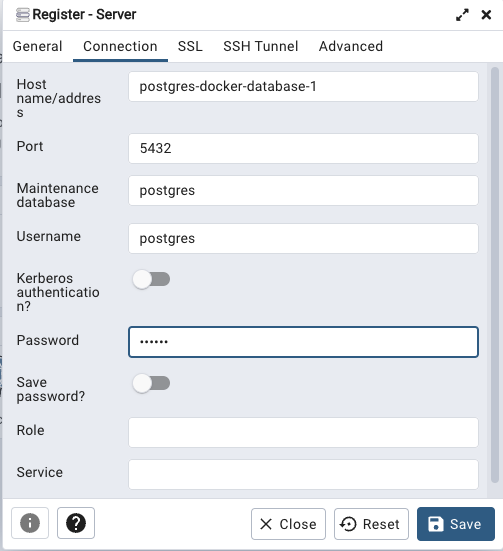
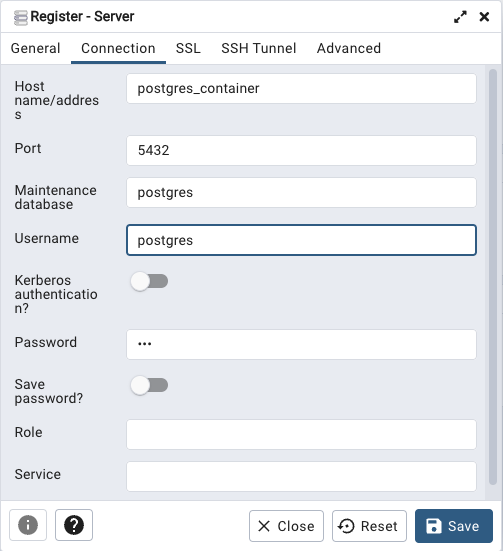
feat: Add tls for PG admin panel
- pgadmin use tls
- update README

diff --git a/README.md b/README.md
@@ -1,17 +1,26 @@
 # Install Postgres SQL object-relational database system on Docker
 
-[Postgres Docker source](https://github.com/docker-library/docs/blob/master/postgres/README.md)
+[Postgres for Docker](https://github.com/docker-library/docs/blob/master/postgres/README.md)
 
-## Prepare your environment
+This guide aims to deploy a Postgres Database running on Docker with his Admin panel (pgadmin).
 
-### Docker
-`Docker` and `docker compose` must be installed on the server in order to install and start Postgres system. 
+For this guide we use a Linux Ubuntu 20.xx and Postgres latest version.
 
-- docker installed [Install Docker Engine](https://docs.docker.com/engine/install/)
-- docker-compose installed [Install Docker Compose](https://docs.docker.com/compose/install/)
+## Quick Install
 
-### Postgres configuration 
+Connect to your server and clone the repo
+
+```shell
+git clone https://gitlab.com/ArnaudSene/postgres-docker.git
+cd postgres-docker
+```
+
+
 Edit the `.env` file with required values.
+
+```shell
+vi .env
+```
 
 ```dotenv
 POSTGRES_USER=postgres
@@ -21,22 +30,85 @@ PGADMIN_DEFAULT_EMAIL="a valid email"
 PGADMIN_DEFAULT_PASSWORD="pgadmin password"
 ```
 
-## Install & start Postgres container
+Create certificate
+
+```shell
+cd certs
+openssl req -new -newkey rsa:4096 -x509 -sha256 -days 365 -nodes -out pgadmin_server.crt -keyout pgadmin_server.key
+```
+
+Create and start containers.
+
+```shell
+bash start-postgres.sh
+```
+
+
+---
+
+## 1. Step by step - Prepare your environment
+
+### 1.1 Docker
+`Docker` and `docker compose` must be installed on the server in order to install and start Postgres system. 
+
+- docker installed [Install Docker Engine](https://docs.docker.com/engine/install/)
+- docker-compose installed [Install Docker Compose](https://docs.docker.com/compose/install/)
+
+### 1.2 Postgres configuration 
+Edit the `.env` file with required values.
+
+```shell
+vi .env
+```
+
+```dotenv
+POSTGRES_USER=postgres
+POSTGRES_PASSWORD="pg password"
+POSTGRES_DB="database name"
+PGADMIN_DEFAULT_EMAIL="a valid email"
+PGADMIN_DEFAULT_PASSWORD="pgadmin password"
+```
+
+### 1.3 Create a self-signed Certificate (for internal use)
+
+The certificate will be used for Postgres admin panel `pgadmin`
+
+Connect to your linux server and create a crt and key file.
+
+#### 1.3.1 Connect to your linux server
+
+*where server can be for example* 
+
+> - username: vagrant (replace with your username)
+> - server  : 192.168.56.38 (replace with your server IP address)
+
+```shell
+ssh vagrant@192.168.56.38
+```
+
+#### 1.3.2 Create a crt and key file
+
+```shell
+cd certs
+openssl req -new -newkey rsa:4096 -x509 -sha256 -days 365 -nodes -out pgadmin_server.crt -keyout pgadmin_server.key
+```
+
+## 2. Install & start Postgres container
 The script will configure the environment, create and start containers.
 
 ```shell
 bash start-postgres.sh
 ```
 
-## Connect to pgadmin
-### Retrieve the pgadmin IP address.
+## 3. Connect to pgadmin
+### 3.1 Retrieve the pgadmin IP address.
 
 On the server run the following command
 ```shell
 docker inspect postgres-docker-pgadmin-1|grep IPAddress|cut -d":" -f2|tail -1
 ```
 
-### Open the pgadmin web GUI
+### 3.2 Open the pgadmin web GUI
 Through a web browser enter the url to pgadmin with the IP address retrieve before.
 
 > e.g: with IP address = 10.0.0.1
@@ -50,14 +122,14 @@ Use the credentials defined in the .env
 > PGADMIN_DEFAULT_PASSWORD="pgadmin password"
 
 
-### Add New Server
+### 3.3 Add New Server
 #### General
 > server name: e.g: server_poc
 
 ![](img/pgadmin-tab-general-server-name.png)
 
 #### Connection
-> hostname: postgres-docker-database-1
+> hostname: postgres_container
 >  
 > username: postgres
 >  

diff --git a/CHANGELOG.md b/CHANGELOG.md
@@ -1,3 +1,11 @@
+0.3.0
+
+feat: Add tls for PG admin panel
+
+- pgadmin use tls
+- update README
+
+---
 0.2.0
 
 patch: Update README
